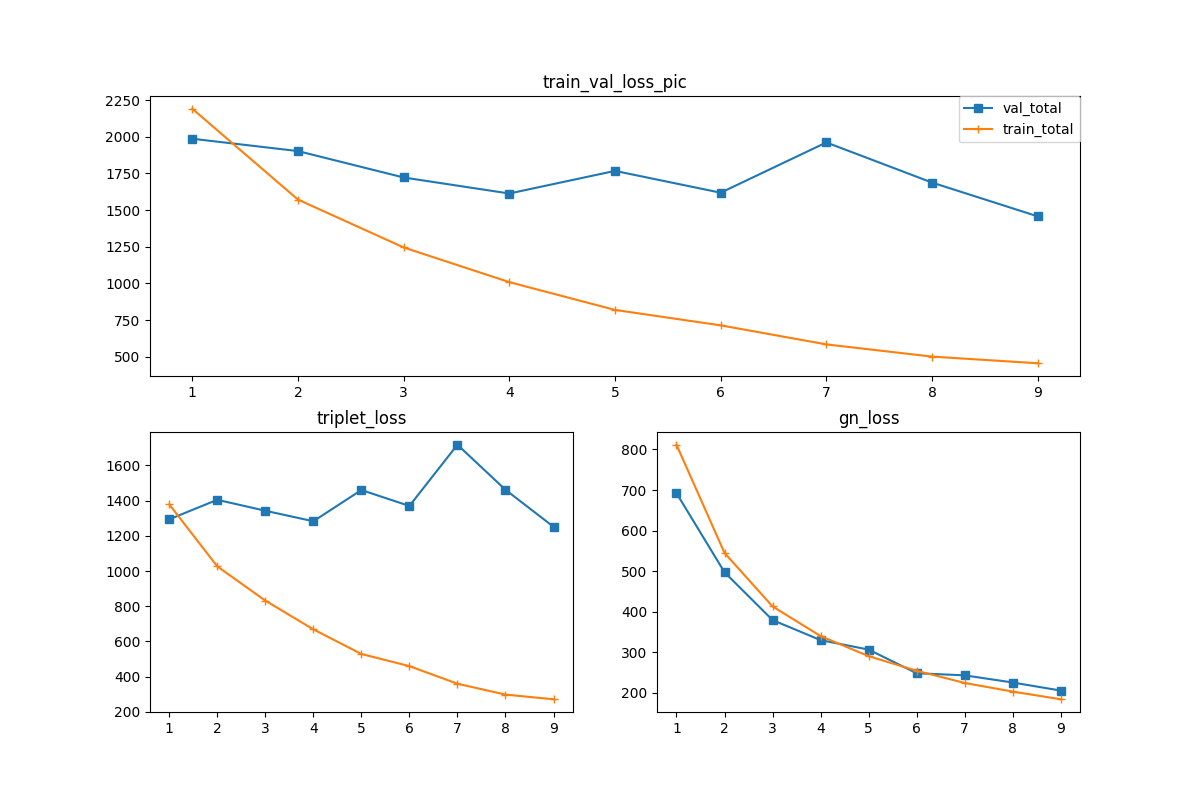
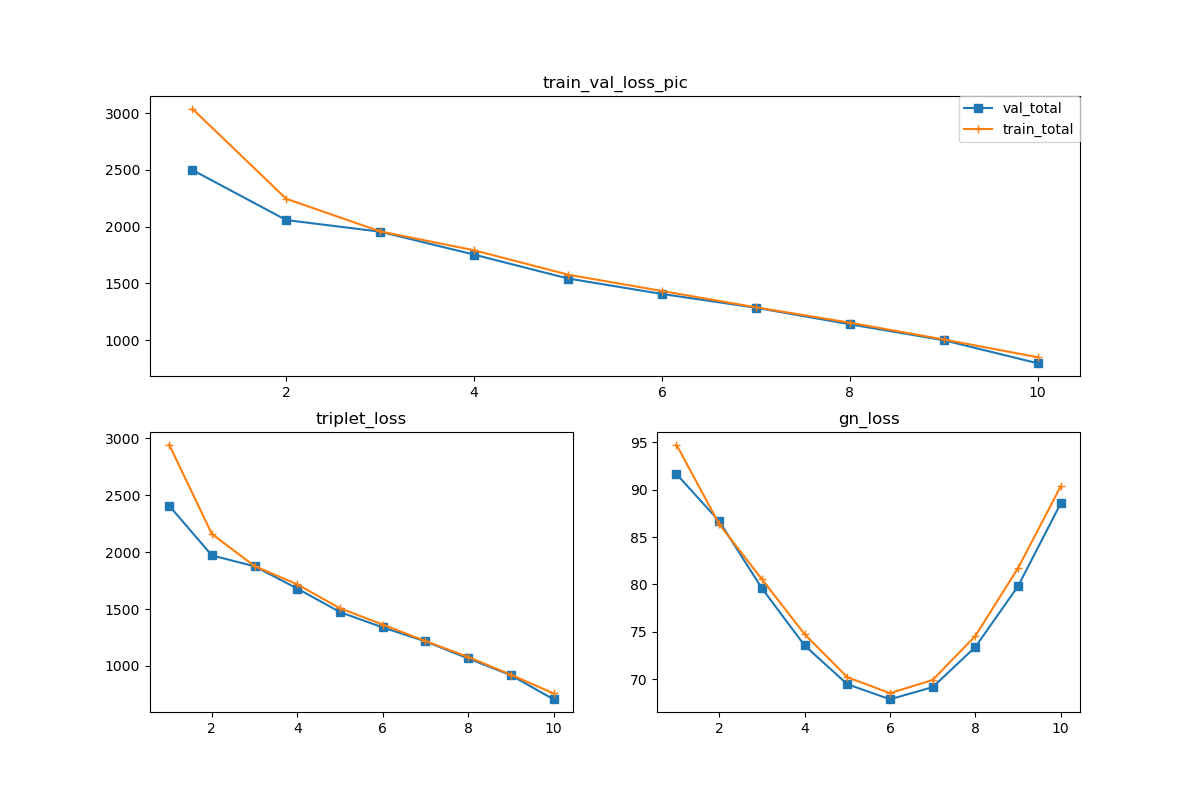
use warm start and tune, print val loss every step

diff --git a/trainer copy.py b/trainer copy.py
@@ -53,7 +53,7 @@ def fit(train_loader, val_loader, model, loss_fn, optimizer, scheduler, n_epochs
         '''
 
         # Train stage
-        train_loss, total_contras_loss, total_gnloss = train_epoch(val_loader, train_loader, model, loss_fn, optimizer, cuda, log_interval, save_root, epoch, init=False)
+        train_loss, total_contras_loss, total_gnloss = train_epoch(train_loader, model, loss_fn, optimizer, cuda, log_interval, save_root, epoch, init=False)
         train_x.append(epoch + 1)
         train_y.append(train_loss)
         train_y_contras.append(total_contras_loss)
@@ -159,7 +159,7 @@ def fit(train_loader, val_loader, model, loss_fn, optimizer, scheduler, n_epochs
 
 
 
-def train_epoch(val_loader, train_loader, model, loss_fn, optimizer, cuda, log_interval, save_root, epoch, init):
+def train_epoch(train_loader, model, loss_fn, optimizer, cuda, log_interval, save_root, epoch, init):
     # initialize network parameters, oscillates a lot here. not good
     if init:
         for m in model.modules():
@@ -229,15 +229,9 @@ def train_epoch(val_loader, train_loader, model, loss_fn, optimizer, cuda, log_i
         optimizer.step()
 
         if batch_idx % log_interval == 0:
-            val_loss, val_contras_loss, val_gnloss = test_epoch(val_loader, model, loss_fn, cuda, epoch)
-            val_loss /= len(val_loader)
-            val_contras_loss /= len(val_loader)
-            val_gnloss /= len(val_loader)
-
             message = 'Train: [{}/{} ({:.0f}%)]\tLoss: {:.6f}\ttriplet_Loss: {:.6f}\tgn_Loss: {:.6f}'.format(
                 batch_idx * len(img_ab[0]), len(train_loader.dataset),
                 100. * batch_idx / len(train_loader), np.mean(losses), np.mean(contras_losses), np.mean(gnlosses))
-            message += '\nValidation: Average loss: {:.4f}\ttriplet loss: {:.6f}\tgn loss: {:.6f}'.format(val_loss, val_contras_loss, val_gnloss)
             imgA.append(wandb.Image(img_ab[0]))
             imgB.append(wandb.Image(img_ab[1]))
             wandb.log({"current_epoch": epoch, "train_img_a":imgA, "train_img_b":imgB, "per_step_loss": np.mean(losses), "per_step_triplet_loss": np.mean(contras_losses), "per_step_gn_loss": np.mean(gnlosses)})
@@ -254,8 +248,6 @@ def train_epoch(val_loader, train_loader, model, loss_fn, optimizer, cuda, log_i
     total_loss /= (batch_idx + 1)
     total_contras_loss /= (batch_idx + 1)
     total_gnloss /= (batch_idx + 1)
-
-
 
     return total_loss, total_contras_loss, total_gnloss
 

diff --git a/run.py b/run.py
@@ -15,7 +15,7 @@ parser.add_argument('--dataset_name', type=str, default='cmu')
 parser.add_argument('--dataset_image_folder', type=str, default='images')
 parser.add_argument('--pair_info_folder', type=str, default='correspondence')
 parser.add_argument('--query_folder', type=str, default='query')
-parser.add_argument('--all_slice', type=bool, default=True)
+parser.add_argument('--all_slice', type=bool, default=False)
 parser.add_argument('--slice', type=int, default=6)
 parser.add_argument('--transform', type=bool, default=True)
 parser.add_argument('--start_epoch', type=int, default=0)
@@ -32,7 +32,7 @@ parser.add_argument('--scale', type=int, default = 2, help="Scaling factor for i
 parser.add_argument('--save_root', type=str, default = '/local/home/lixxue/gnnet/checkpoint')
 parser.add_argument('--gn_loss_lamda', type=float, default=0.003)
 parser.add_argument('--contrastive_lamda', type=float, default=1)
-parser.add_argument('--weight_decay', type=float, default=0.001)
+parser.add_argument('--weight_decay', type=float, default=0.01)
 parser.add_argument('--num_matches', type=float, default=1024)
 parser.add_argument('--resume_checkpoint', type=str, default=None)
 parser.add_argument('--nearest', type=bool, default=True, help="upsampling mode")
@@ -43,7 +43,7 @@ parser.add_argument('--validate', type=bool, default=True, help="validate during
 
 args = parser.parse_args()
 
-wandb.init(config=args, project="gn_net_asl")
+wandb.init(config=args, project="gn_net_workstation")
 wandb.config["more"] = "custom"
 
 
@@ -113,7 +113,7 @@ if (args.resume_checkpoint):
 
 # set up loss
 loss_fn = GNLoss(margin=args.margin, contrastive_lamda=args.contrastive_lamda, gn_lamda=args.gn_loss_lamda, img_scale=args.scale)
-optimizer = optim.Adam(model.parameters(), lr=args.lr, weight_decay=args.weight_decay)
+optimizer = optim.AdamW(model.parameters(), lr=args.lr, weight_decay=args.weight_decay)
 # optimizer = optim.SGD(model.parameters(), lr=args.lr, momentum=0.9, weight_decay=args.weight_decay)
 scheduler = optim.lr_scheduler.StepLR(optimizer, args.schedule_lr_frequency, gamma=args.schedule_lr_fraction,
                                       last_epoch=-1)  # optional
